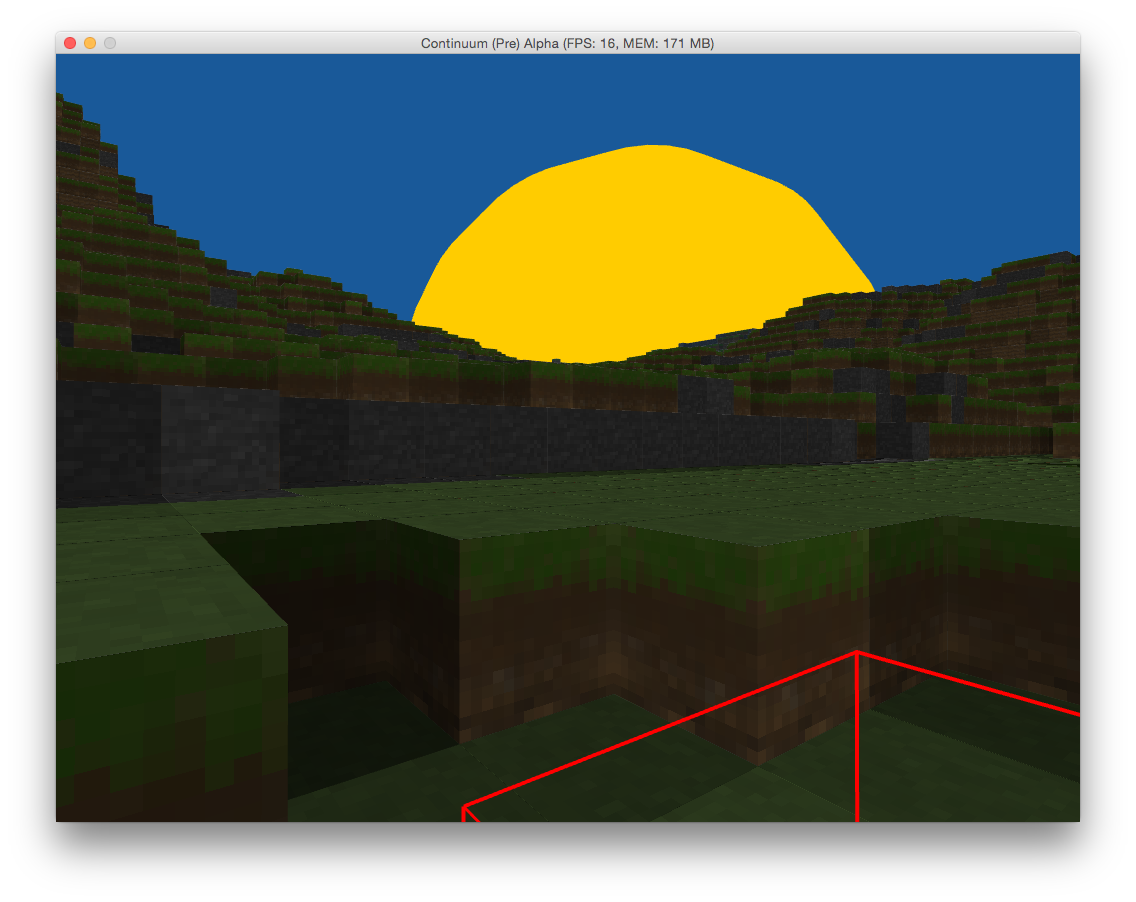
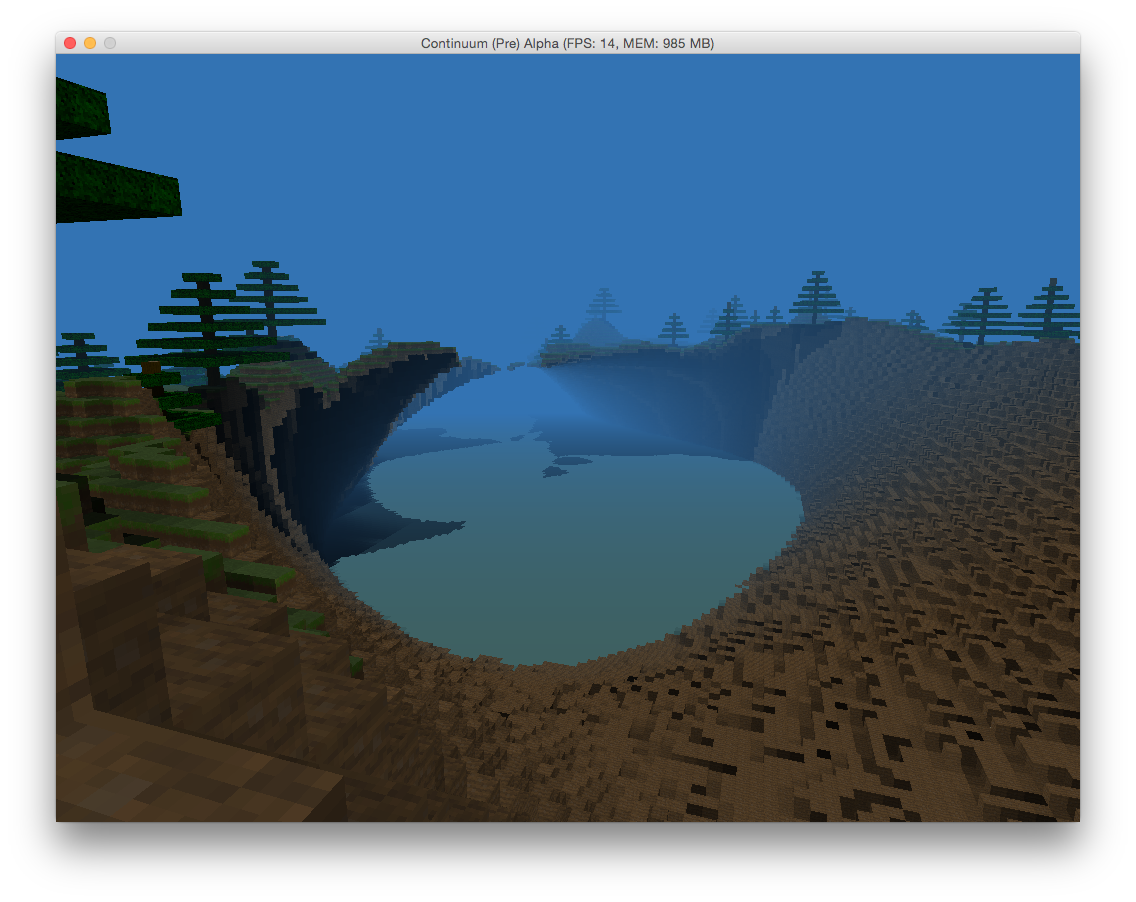
Modified the terrain generation

diff --git a/src/main/java/com/continuum/Chunk.java b/src/main/java/com/continuum/Chunk.java
@@ -106,12 +106,12 @@ public class Chunk extends RenderObject {
 
 		for (int x = 0; x < Chunk.chunkDimensions.x; x++) {
 			for (int z = 0; z < Chunk.chunkDimensions.z; z++) {
-				float height = calcTerrainElevation(x + xOffset, z + zOffset) + (calcTerrainRoughness(x + xOffset, z + zOffset) * calcTerrainDetail(x + xOffset, z + zOffset)) * 64 + 64;
+				float height = (calcTerrainElevation(x + xOffset, z + zOffset) + (calcTerrainRoughness(x + xOffset, z + zOffset) * calcTerrainDetail(x + xOffset, z + zOffset)) * 64) + 64f;
 
 				float y = height;
 
 				while (y > 0) {
-					if (getCaveDensityAt(x + xOffset, y + yOffset, z + zOffset) < 0.45 && getHillCaves(x + xOffset, y + yOffset, z + zOffset) < 0.5) {
+					if (getCaveDensityAt(x + xOffset, y + yOffset, z + zOffset) < 0.45 && getCanyonDensityAt(x + xOffset, y + yOffset, z + zOffset) < 0.2) {
 						if (height == y) {
 							setBlock(x, (int) y, z, 0x1);
 						} else {
@@ -119,15 +119,11 @@ public class Chunk extends RenderObject {
 						}
 					}
 
-					if (getBlock(x, (int) y, z) != 0 && getStoneDensity(x + xOffset, y + yOffset, z + zOffset) > 0.3) {
-						setBlock(x, (int) y, z, 0x3);
-					}
-
 					y--;
 				}
 
 				// Generate water
-				for (int i = 32; i > 0; i--) {
+				for (int i = 64; i > 0; i--) {
 					if (getBlock(x, i, z) == 0) {
 						setBlock(x, i, z, 0x4);
 					}
@@ -617,7 +613,7 @@ public class Chunk extends RenderObject {
 	 */
 	private float calcTerrainElevation(float x, float z) {
 		float result = 0.0f;
-		result += parent.getpGen1().noise(0.0001f * x, 0.0001f, 0.0001f * z) * 64.0f;
+		result += parent.getpGen1().noise(0.002f * x, 0.002f, 0.002f * z) * 64;
 		return result;
 	}
 
@@ -626,8 +622,8 @@ public class Chunk extends RenderObject {
 	 */
 	private float calcTerrainRoughness(float x, float z) {
 		float result = 0.0f;
-		result += parent.getpGen1().noise(0.009f * x, 0.009f, 0.009f * z);
-		return result;
+		result += parent.getpGen1().noise(0.01f * x, 0.01f, 0.01f * z);
+		return Math.abs(result);
 	}
 
 	/**
@@ -635,7 +631,7 @@ public class Chunk extends RenderObject {
 	 */
 	private float calcTerrainDetail(float x, float z) {
 		float result = 0.0f;
-		result += parent.getpGen1().noise(0.05f * x, 0.05f, 0.05f * z);
+		result += parent.getpGen1().noise(0.04f * x, 0.04f, 0.04f * z);
 		return Math.abs(result);
 	}
 
@@ -658,12 +654,11 @@ public class Chunk extends RenderObject {
 	}
 
 	/**
-	 * TODO
+	 * Returns the cave density for the base terrain.
 	 */
-	private float getHillCaves(float x, float y, float z) {
+	private float getCanyonDensityAt(float x, float y, float z) {
 		float result = 0.0f;
-		result += parent.getpGen3().noise(0.03f * x, 0.03f * y, 0.03f * z);
-
+		result += parent.getpGen3().noise(0.006f * x, 0.006f * y, 0.006f * z);
 		return result;
 	}
 
